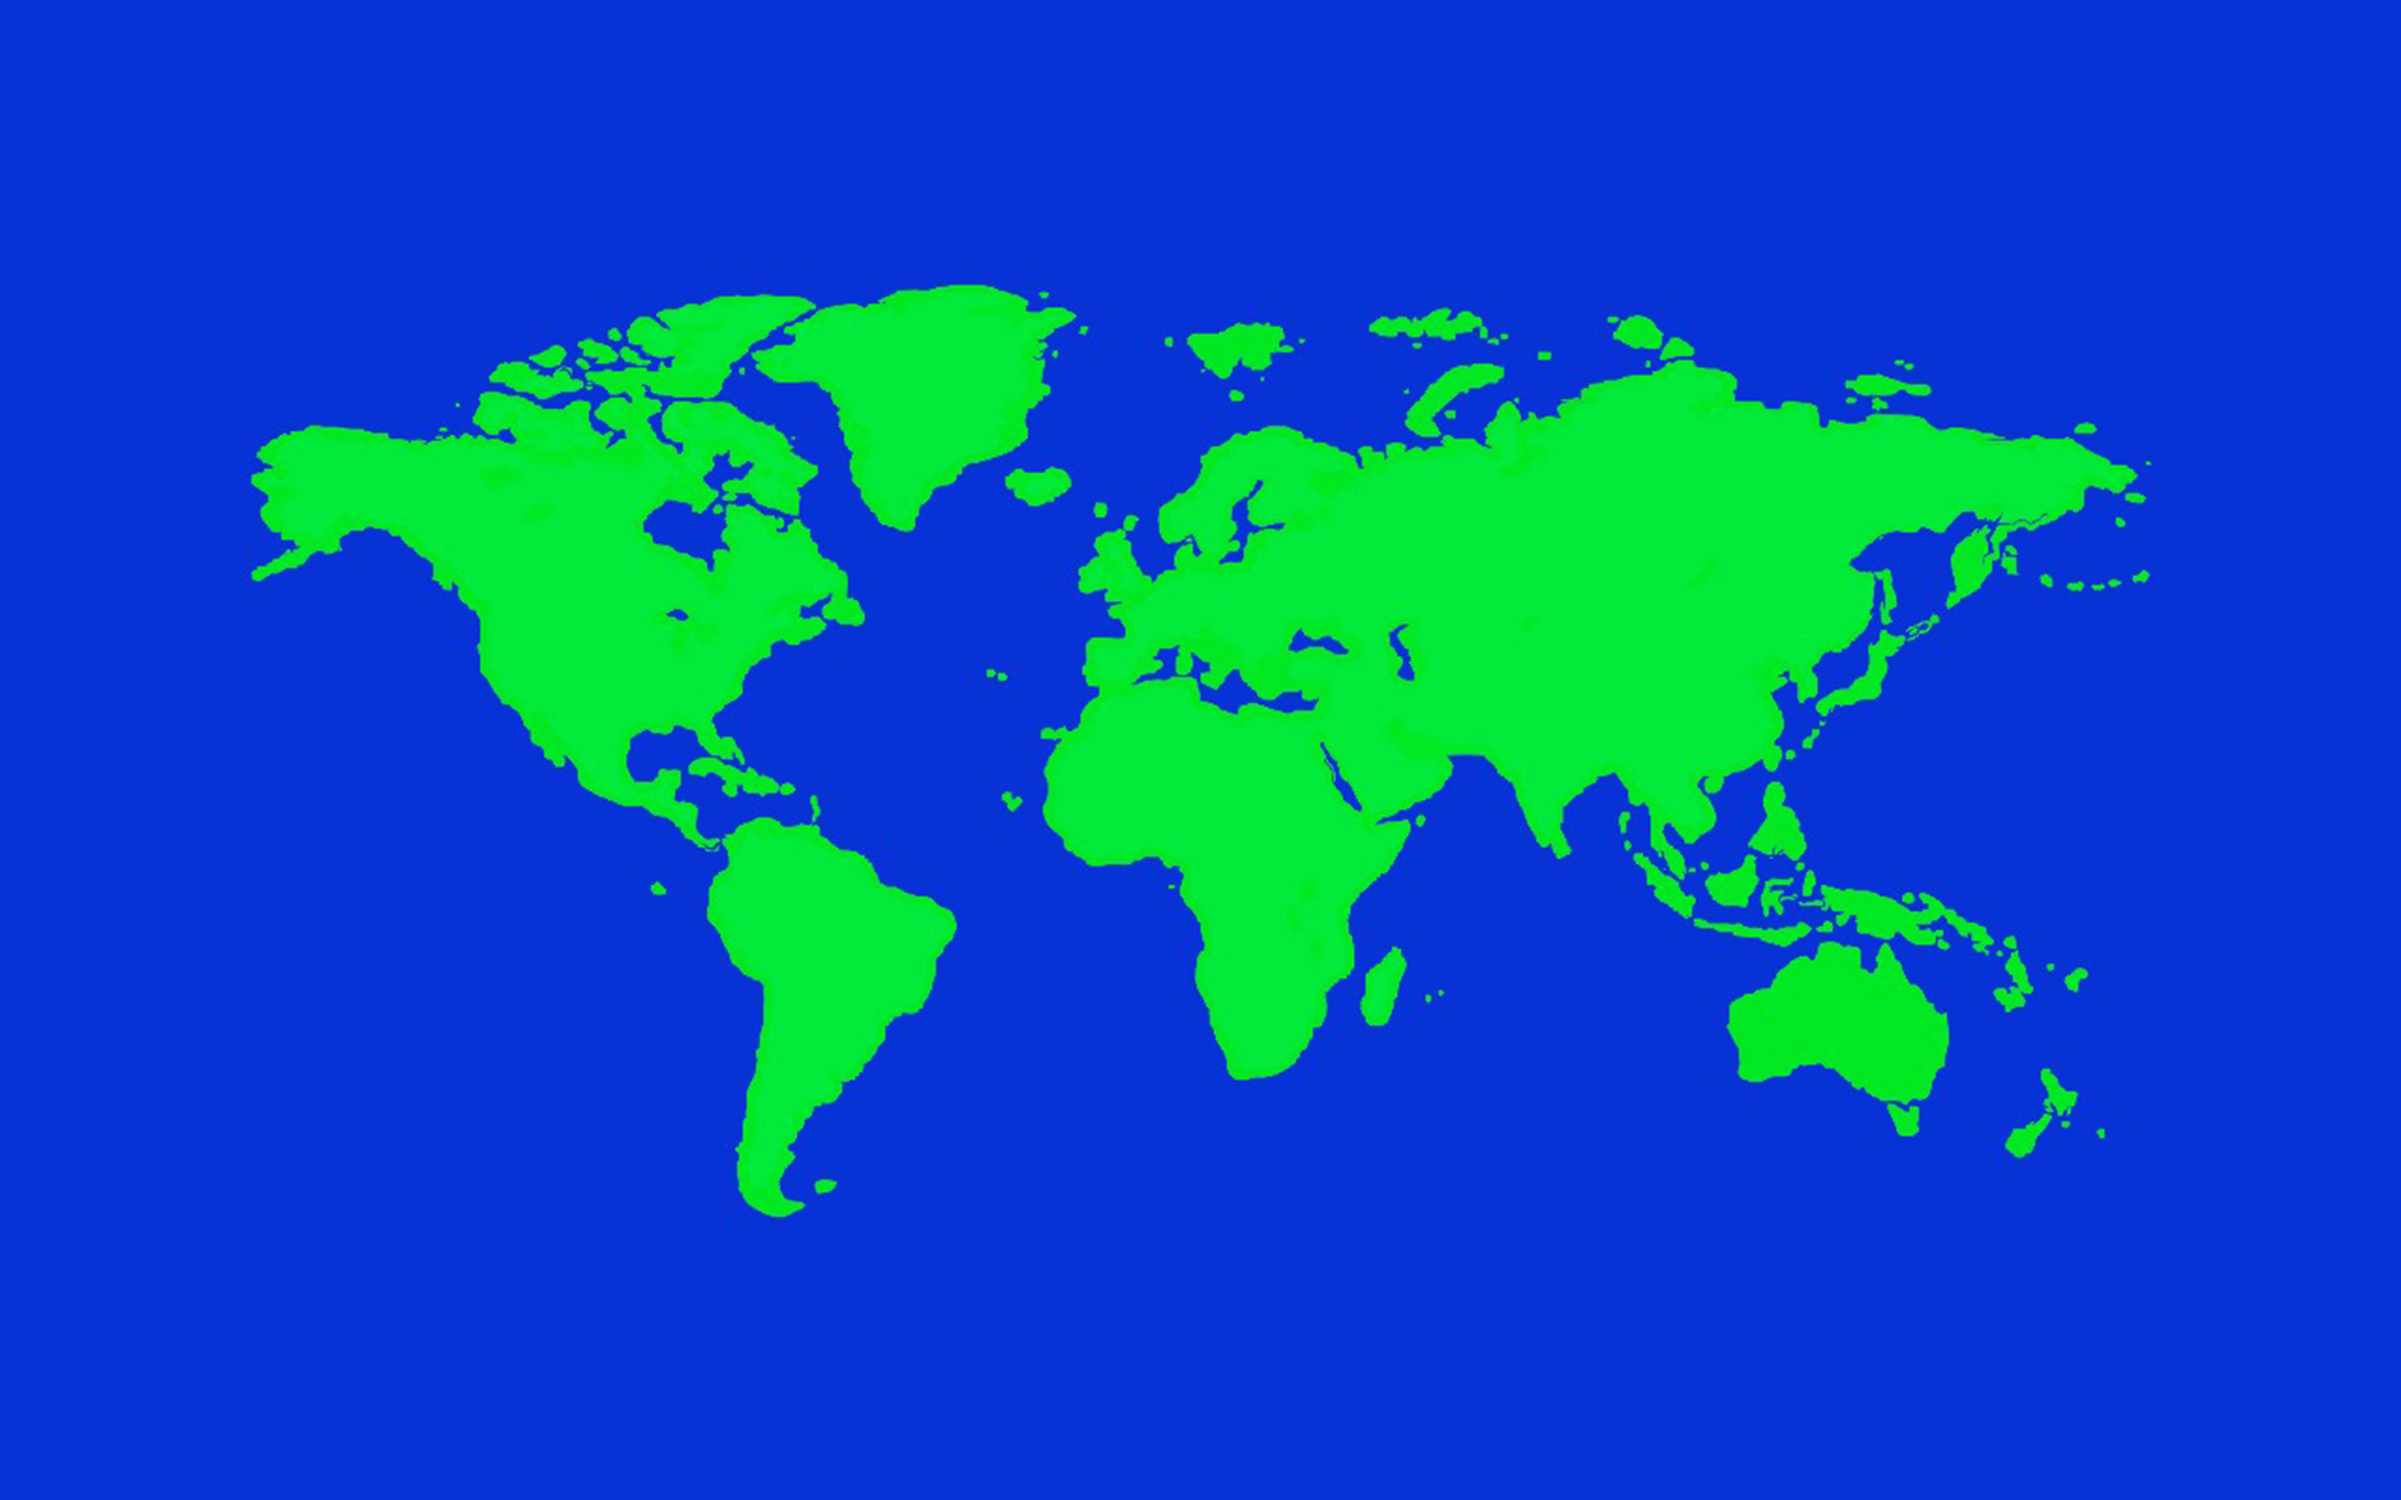
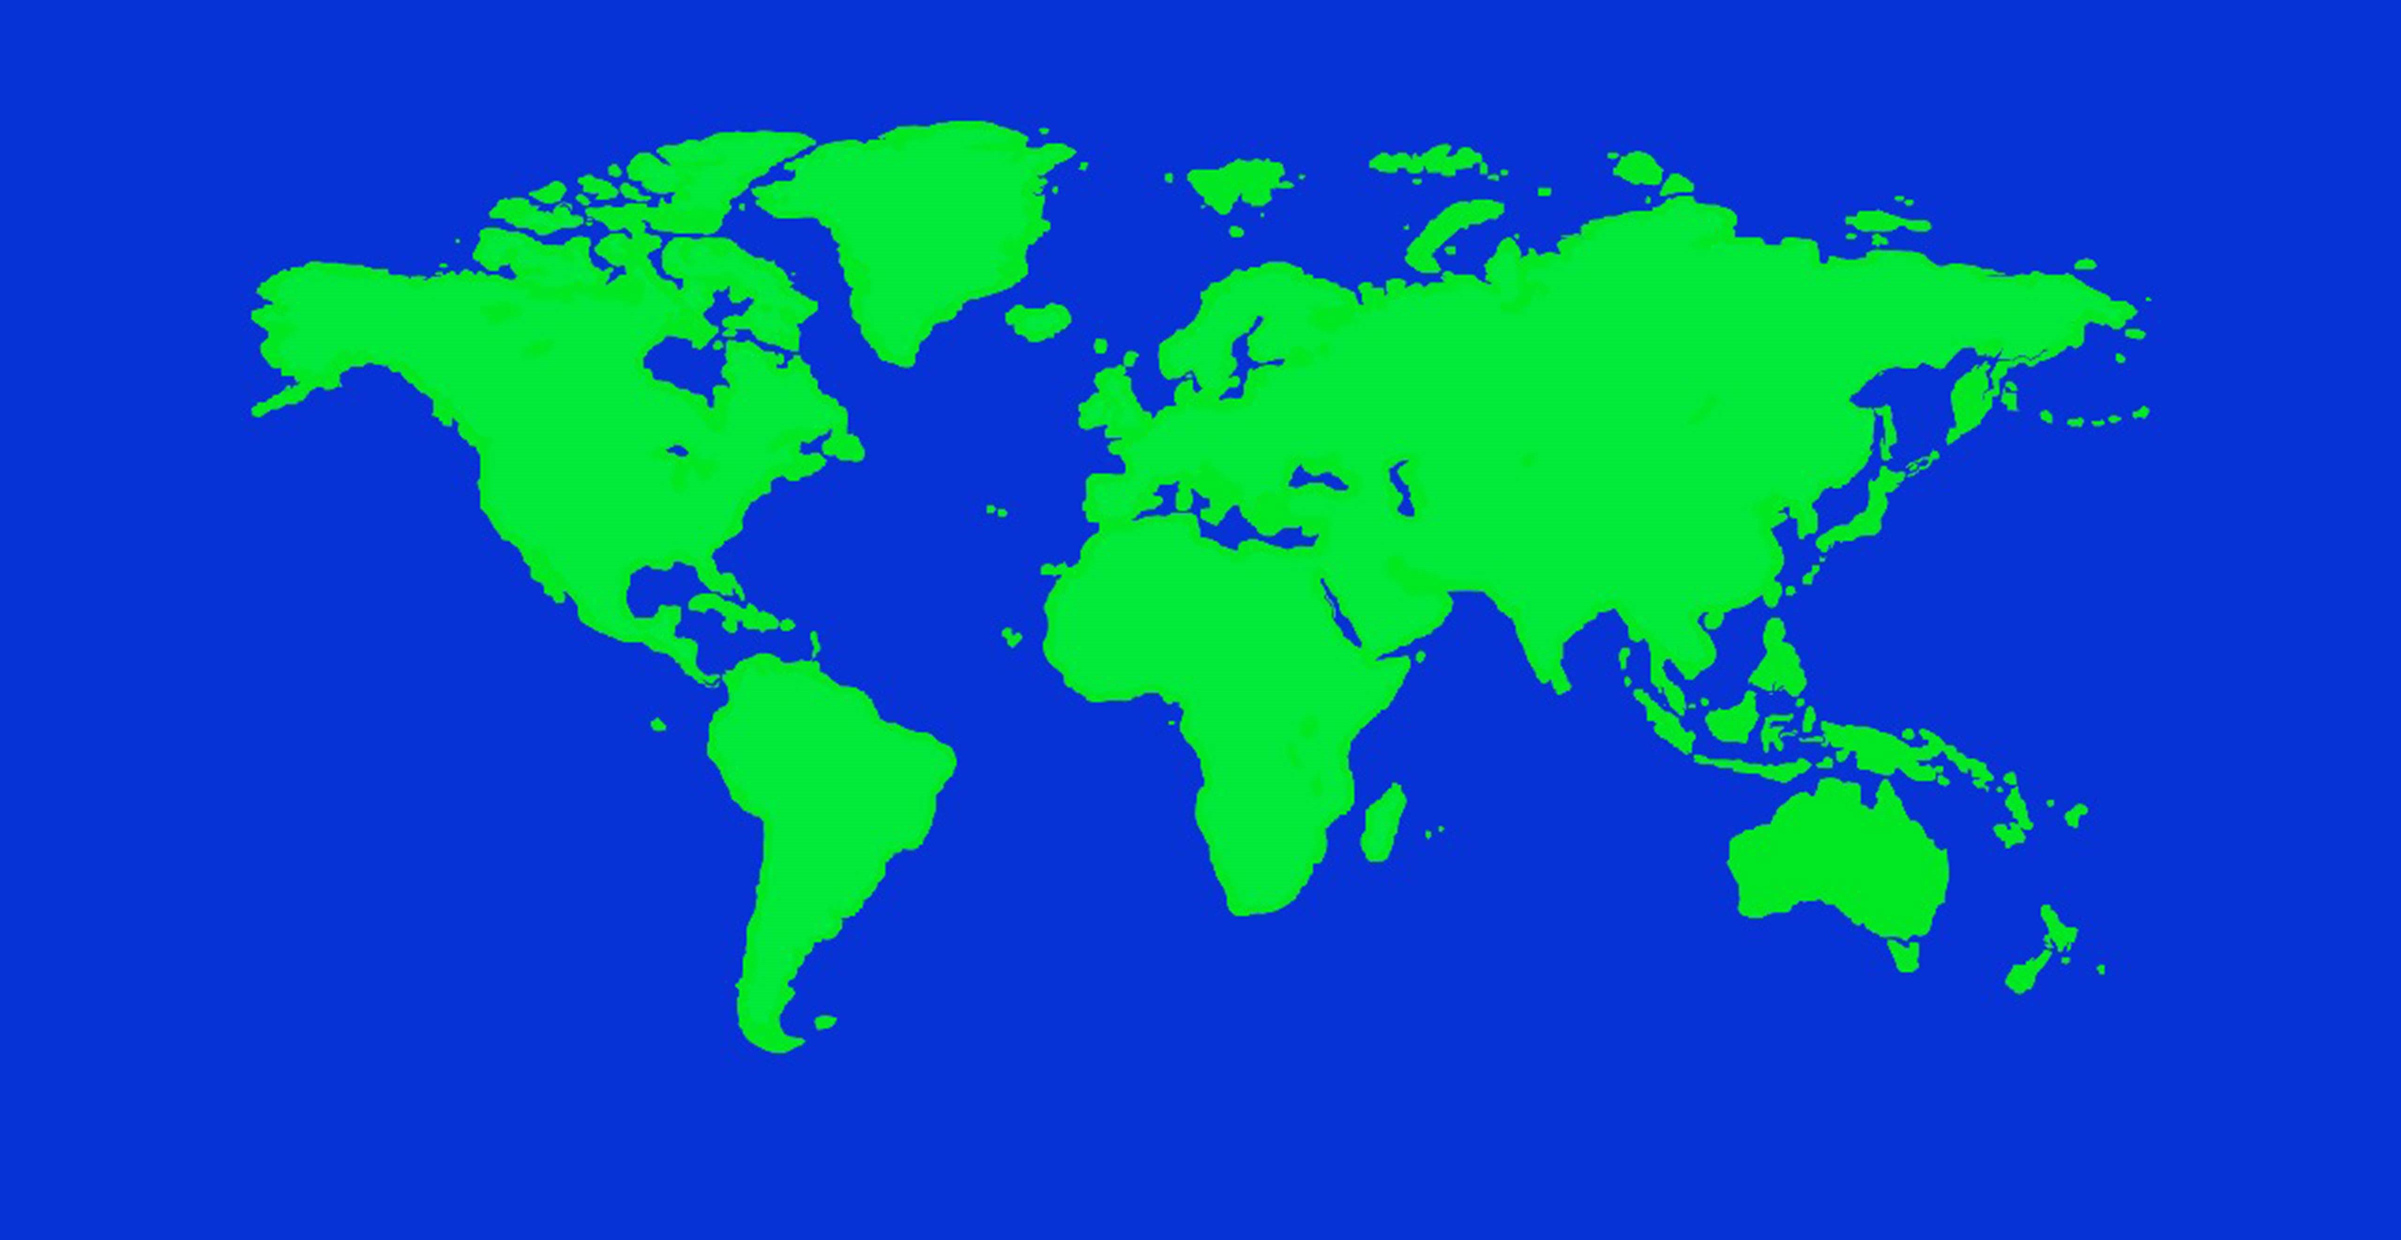
minor changes

diff --git a/src/test.py b/src/test.py
@@ -5,11 +5,10 @@ from OpenGL.GLU import *
 import math
 from PIL import Image
 
-angle_x, angle_y = 0, 0  # Rotation angles for navigation
-angle_sun = 0
+angle_x, angle_y, angle_sun = 0, 0, 0  # Rotation angles for navigation
 
 # Load image
-image = Image.open("map1.png").convert("RGB")
+image = Image.open("map2.jpg").convert("RGB")
 image_width, image_height = image.size
 pixels = image.load()
 
@@ -83,7 +82,7 @@ def display():
     glLoadIdentity()
     gluLookAt(5, 0, 0, 0, 0, 0, 0, 0, 1)
 
-    glRotatef(angle_x, 1, 0, 0)
+    glRotatef(angle_x, 0, 1, 0)
     glRotatef(angle_y, 0, 0, 1)
     draw_sphere(1, W, H)
 
@@ -95,7 +94,6 @@ def reshape(width, height):
     glLoadIdentity()
     gluPerspective(45, width / height, 1, 10)
     glMatrixMode(GL_MODELVIEW)
-
 
 def keyboard(key, x, y):
     global angle_x, angle_y
